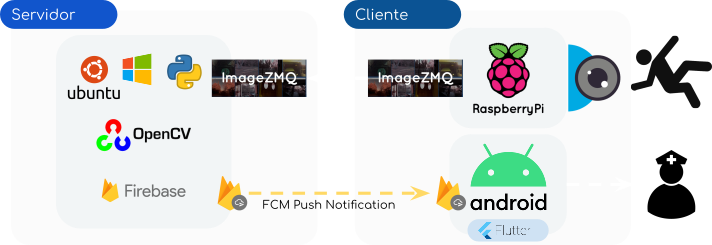
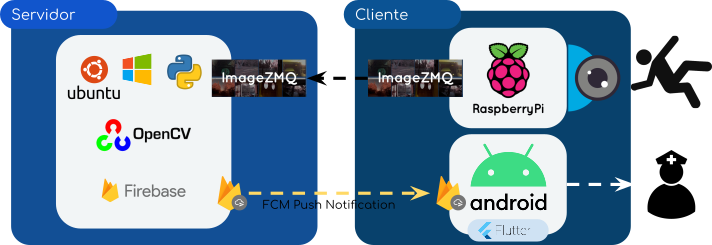
Updated README

diff --git a/README.md b/README.md
@@ -1,26 +1,67 @@
 # ![Fallaid](https://github.com/Kseg97/fallaid-project/blob/master/images/logo.png)
 ## Resumen | Abstract 📋
+
 Fallaid es un Sistema de Detección de Caidas (SDC) que integra Raspberry Pi, OpenCV, ImageZMQ, Firebase y Flutter. Permite la detección de caidas y el envío de notificaciones push a través del servicio de mensajería de Firebase (FCM). Está orientado a personas con capacidad motriz reducida, personas mayores e interesados (familiares o encargados).
 
 Fallaid (Fall Aid) is a Fall Detection System (FDS) intergrating Raspberry Pi, OpenCV, ImageZMQ, Firebase and Flutter. It allows fall detection and push notification alarms through Firebase Cloud Messaging.
 
-Nuestra arquitectura es la sigiente:
-![Arquitectura](https://github.com/Kseg97/fallaid-project/blob/master/images/architecture.png)
-
 El proyecto de flutter se encuentra en:
 https://github.com/Kseg97/fallaid-flutter
 
-## Introducción 🚀
+## ¿Por qué?
 
+## ¿Cómo?
+
+## ¿Qué?
+
+Para entender qué construiremos, veamos nuestra arquitectura.
+
+![Arquitectura](https://github.com/Kseg97/fallaid-project/blob/master/images/architecture.png)
+
+El cliente Raspberry Pi (RPi) recibe la señal de video de la webcam y la transmite por la red via ZMQ (ImageZMQ). Un servidor en Ubuntu (o windows) recibe la señal y hace un tratamiento con OpenCV y otras librerías de tratamiento numéricos y de imágenes. Si en el tratamiento (modelo de detección de personas en Caffe y algoritmo de detección de caidas) detecta una posible caida, envía un mensaje PUSH a través de Firebase Cloud Messaging (FCM). Los clientes android (desarrollados en flutter) que esté suscritos al _topic_ o tema de FCM, recibirán en su barra de notificación una alerta de caida en la habitación donde se encuentra la cámara.
 
 ## Instalación 🚀
 
+TODO
+
+## Ejecución 🚀
+
+### Flutter (Android)
+
+Después de instalar Flutter e integrar con Firebase, puedes ejecutar desde Android Studio con el botón _play_.
+
+![Arquitectura](https://github.com/Kseg97/fallaid-project/blob/master/images/android_base.jpg)
+
+### Python
+
+#### Cliente
+
+TODO
+
+#### Servidor
+
+En el servido (Ubuntu o Windows) debes tener los archivos como:
+
+>	Servidor:
+>		- MobileNetSSD_deploy.caffemodel
+>		- MobileNetSSD_deploy.prototxt
+>		- server.py
+>		- serviceAccountKey.json
+>		- test_firebase.py
+
+Si ejecutas `python test_firebase.py` debería llegar una notificación como en el [final](####final "Ir a ejecución final")
+
+
+
+#### Final 
+Cuando se detecte una caida, en Android aparecerá una notificación.
+
+![Arquitectura](https://github.com/Kseg97/fallaid-project/blob/master/images/notification.jpg)
 
 
 ## Caja | Chasis | Case 🚀
 
-![Picure-Frame-like Plastic Case](https://github.com/Kseg97/fallaid-project/blob/master/images/case.png)
-
+![Picure-Frame-like Plastic Case](https://github.com/Kseg97/fallaid-project/blob/master/images/case.JPG)
 
 ## Video 📢
 
